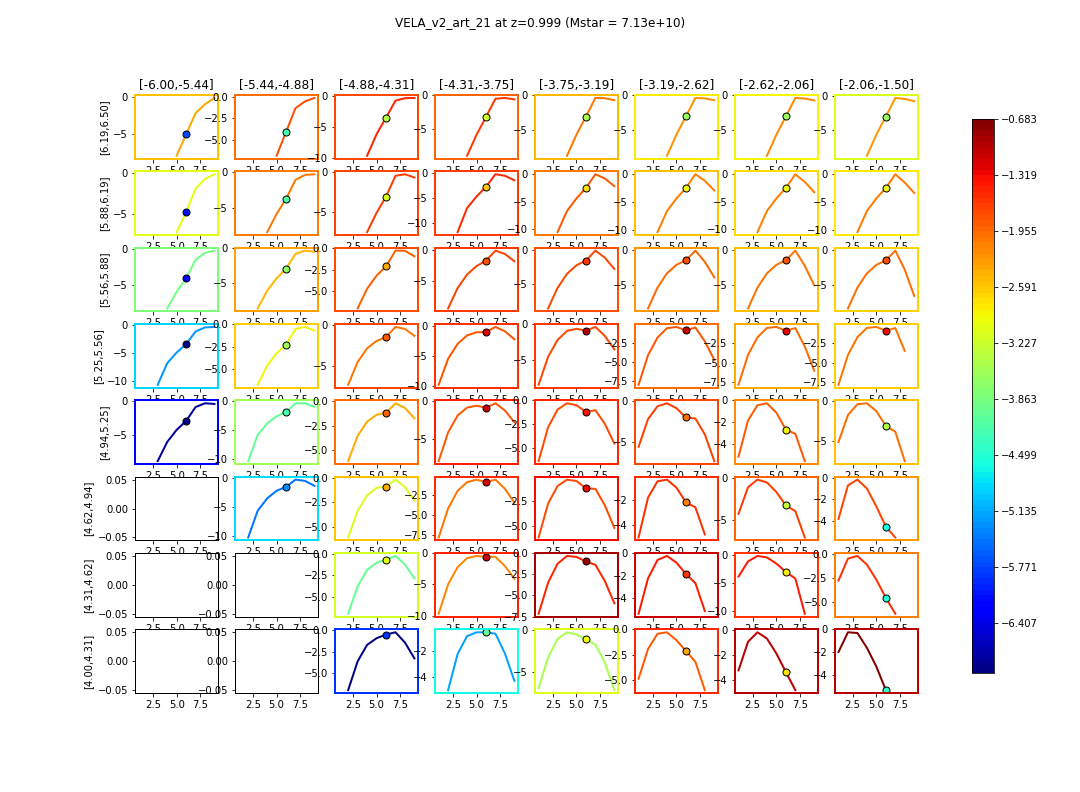
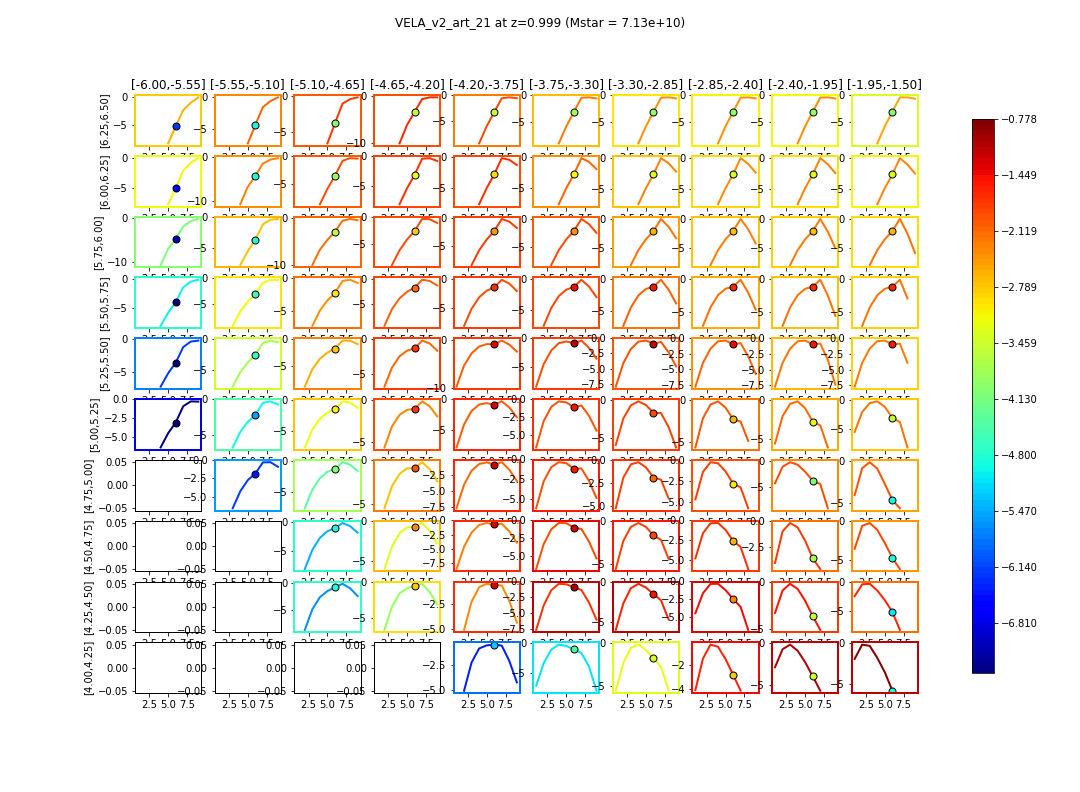
making some 15x15 phaseplots

Changed region(s): [[0.0611, 0.0909, 0.8556, 0.9091], [0.1222, 0.8788, 0.1833, 0.9091]]

diff --git a/metal_species_phaseplot_script.py b/metal_species_phaseplot_script.py
@@ -52,9 +52,9 @@ def get_original_lists(ad,ions):
         print np.sum(ad[intensives[i]])
     return myionmasses_old,myintensives_old
 
-def split_into_bins(low_T,high_T,low_rho,high_rho,n_Tbins,n_rhobins,myintensives_old,myionmasses_old,ions):
-    t_bins = np.linspace(high_T,low_T,n_Tbins+1)
-    rho_bins = np.linspace(low_rho,high_rho,n_rhobins+1)+np.log10(1.6737236e-24)
+def split_into_bins(low_T,high_T,low_rho,high_rho,n,myintensives_old,myionmasses_old,ions):
+    t_bins = np.linspace(high_T,low_T,n+1)
+    rho_bins = np.linspace(low_rho,high_rho,n+1)+np.log10(1.6737236e-24)
     mask_lowbound_rho = np.log10(myintensives_old[2])>np.min(rho_bins)
     mask_highbound_rho = np.log10(myintensives_old[2])<np.max(rho_bins)
     mask_lowbound_T = np.log10(myintensives_old[1])>np.min(t_bins)
@@ -189,6 +189,11 @@ def get_phaseplot(myionmasses,myintensives,t_bins,rho_bins,min_val,max_minus_min
             if line_number==0 or 'line' not in colorwith:
                 line_color = 'k'
                 line_width = 1
+                ax.tick_params(axis='y',          
+                                which='both',    
+                                left=False,   
+                                right=False,    
+                                labelleft=False)
             else:
                 line_color = mymap(convert_to_cbar_scale(line_number,min_val,max_minus_min,log=log))
                 line_width = 2
@@ -203,11 +208,29 @@ def get_phaseplot(myionmasses,myintensives,t_bins,rho_bins,min_val,max_minus_min
                     dot_color = mymap(convert_to_cbar_scale(dot_number,min_val,max_minus_min,log=log))
                     dot_size = 7.
                 ax.plot([specialion+1],[np.log10(ion_mass_in_current_bin[specialion]/all_O_mass_in_current_bin)],'o',mec = 'k',mfc=dot_color,ms=dot_size)
-
+            
+            if len(t_bins)>9:
+                ax.tick_params(axis='x',          
+                                which='both',    
+                                bottom=False,   
+                                top=False,    
+                                labelbottom=False)
+            if len(t_bins)>11:
+                ax.tick_params(axis='y',          
+                                which='both',    
+                                left=False,   
+                                right=False,    
+                                labelleft=False)
             if i==0:
-                ax.set_title('[%.2f,%.2f]'%(rho_low-np.log10(1.6737236e-24),rho_high-np.log10(1.6737236e-24)))
+                if len(t_bins)>11:
+                    ax.set_title('%.1f'%((rho_low-np.log10(1.6737236e-24)+rho_high-np.log10(1.6737236e-24))/2))
+                else:
+                    ax.set_title('[%.2f,%.2f]'%(rho_low-np.log10(1.6737236e-24),rho_high-np.log10(1.6737236e-24)))
             if j==0:
-                ax.set_ylabel("[%.2f,%.2f]"%(t_low,t_high))
+                if len(t_bins)>11:
+                    ax.set_ylabel('%.1f'%((t_low+t_high)/2))
+                else:
+                    ax.set_ylabel("[%.2f,%.2f]"%(t_low,t_high))
 
     if savefigname:
         plt.savefig("quasarscan/plots/%s"%savefigname)
@@ -219,14 +242,14 @@ def make_ionmasses_and_intensives(name,path,atom = 'O',CGM=True):
     myionmasses_old,myintensives_old = get_original_lists(ad,ions)
     return myionmasses_old,myintensives_old,ds,ions
     
-def script(name,path,low_T,high_T,low_rho,high_rho,n_Tbins,n_rhobins,atom = 'O',saveoverallname=None,savephaseplotname=None,\
+def script(name,path,low_T,high_T,low_rho,high_rho,n,atom = 'O',saveoverallname=None,savephaseplotname=None,\
            CGM=True,myionmasses_old=None,myintensives_old=None,ds = None,log=True,cbar='jet',specialion=5,colorwith = ['edge','line','dot']):
     if myionmasses_old is None and myintensives_old is None and ds is None:
         myionmasses_old,myintensives_old,ds,ions = make_ionmasses_and_intensives(name,path,atom,CGM)
     else:
         ions = make_full_ionlist(atom)
     try:
-        myionmasses,myintensives,t_bins,rho_bins = split_into_bins(low_T,high_T,low_rho,high_rho,n_Tbins,n_rhobins,myintensives_old,myionmasses_old,ions)
+        myionmasses,myintensives,t_bins,rho_bins = split_into_bins(low_T,high_T,low_rho,high_rho,n,myintensives_old,myionmasses_old,ions)
         min_val,max_minus_min,ion_mass_in_each_state,all_O_mass,total_gas_mass,CS3,mymap = get_overall_plot(myionmasses,myintensives,t_bins,\
                                                                                                             rho_bins,ions,log,saveoverallname,cbar,specialion=specialion,\
                                                                                                                colorwith=colorwith,dsname=name,ds=ds)
